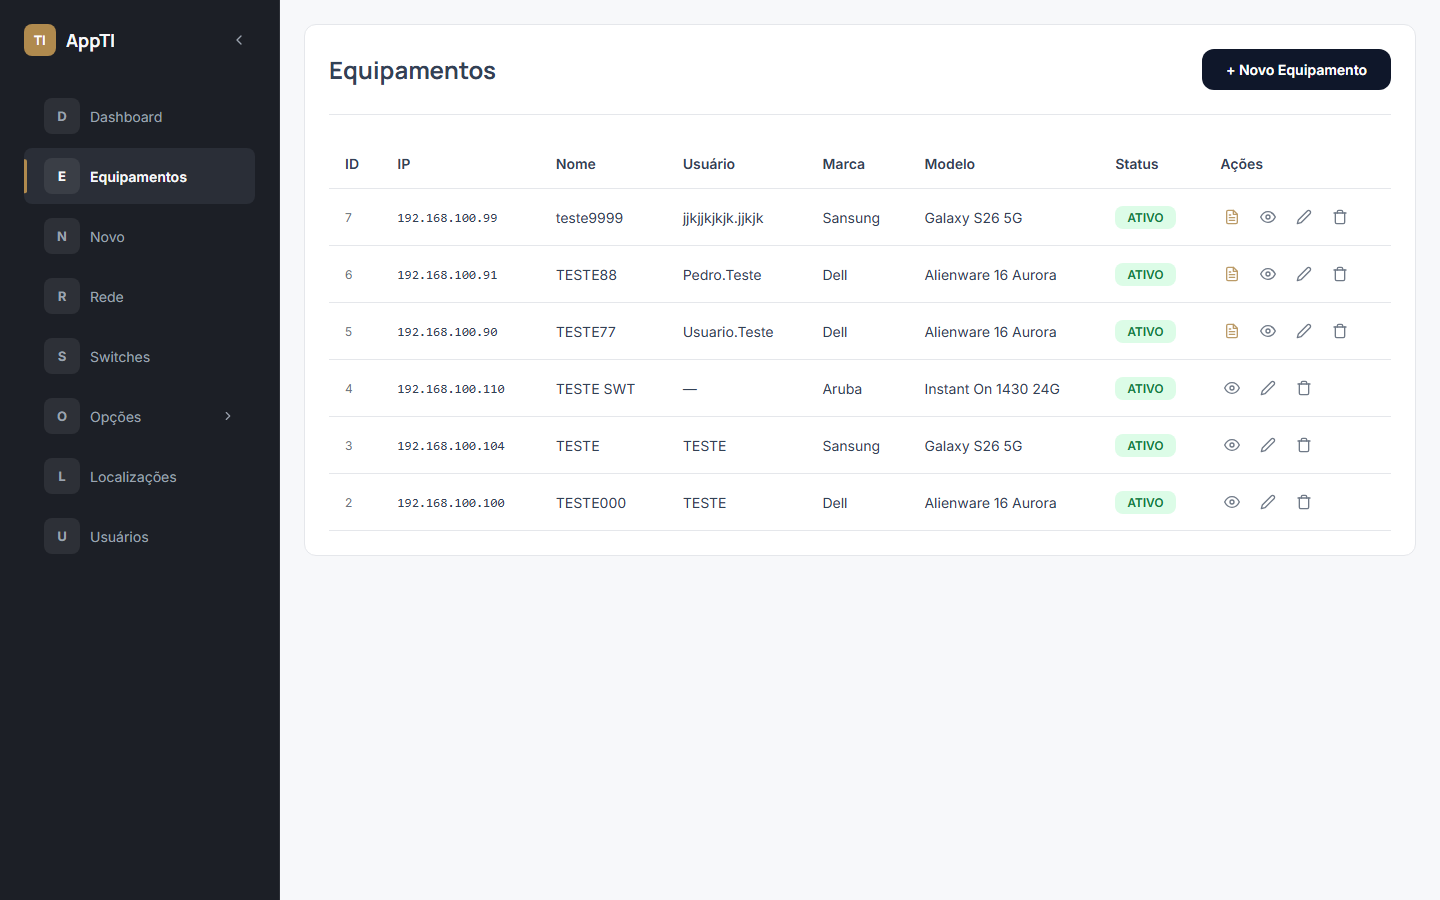
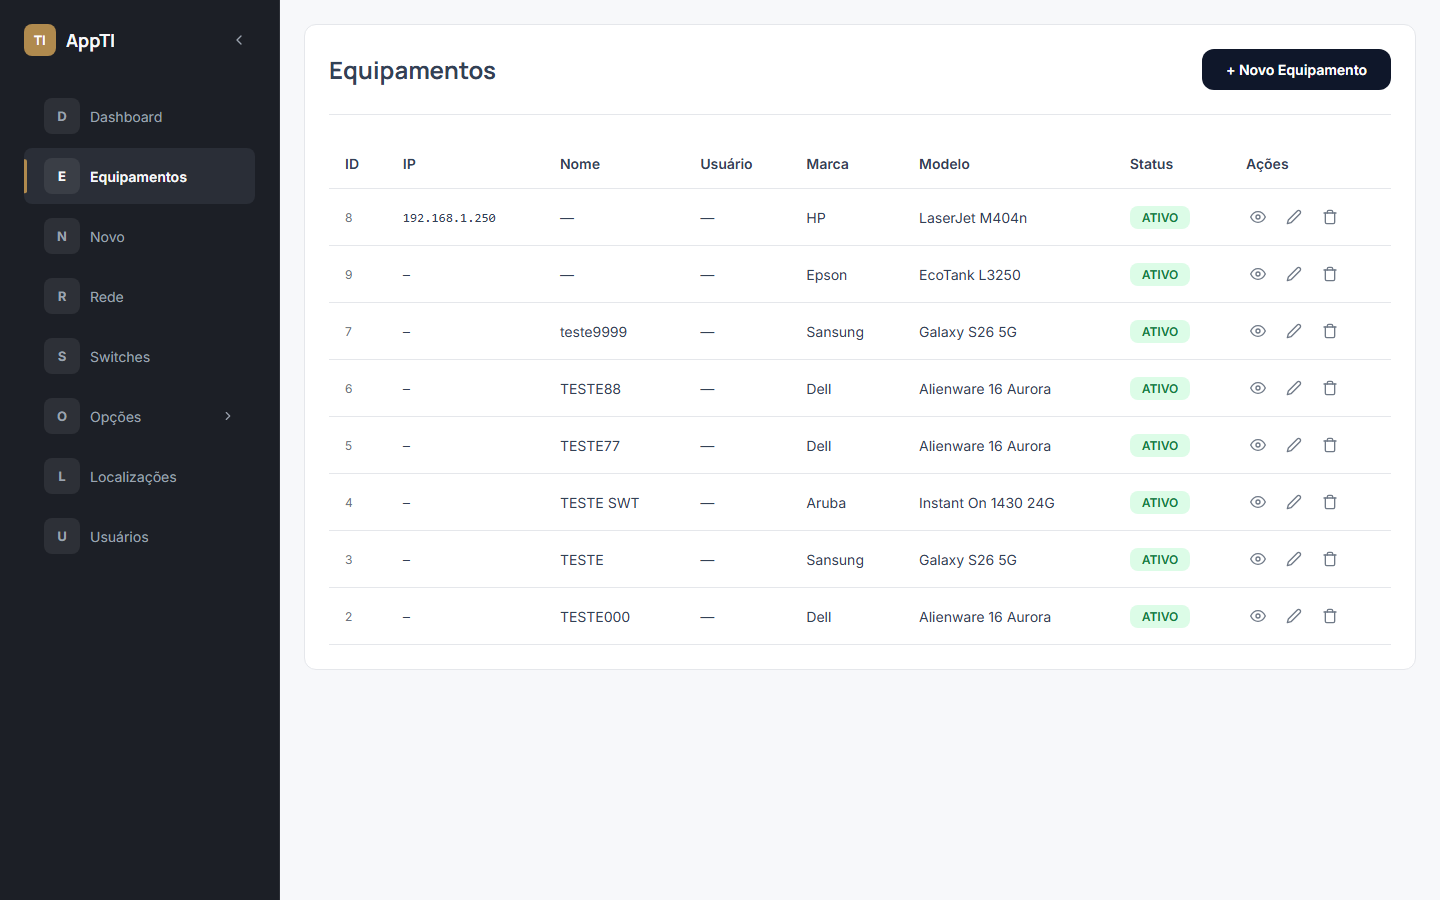
Front-end: Cadastro de Impressoras

diff --git a/front-end/src/pages/Equipamentos/Cadastro/index.tsx b/front-end/src/pages/Equipamentos/Cadastro/index.tsx
@@ -5,12 +5,14 @@ import ComboBoxSelect from '../../../components/ComboBoxSelect';
 import ModalConfirmacao from '../../../components/ModalConfirmacao';
 import { criarEquipamento, enviarAnexoEquipamento, listarLocalizacoes } from '../../../services/equipamentos';
 import type { CategoriaEquipamento } from '../../../services/equipamentos';
+import { listarComputadoresConectaveis } from '../../../services/impressoras';
+import type { ComputadorConectavel } from '../../../services/impressoras';
 import { listarOpcoes } from '../../../services/opcoes';
 import type { OpcoesAgrupadas } from '../../../services/opcoes';
 import { formatarMAC, formatarIMEI, formatarIP, formatarTag } from '../../../utils/formatadores';
 import styles from './Cadastro.module.css';
 
-type Categoria = 'COMPUTADOR' | 'SWITCH' | 'CELULAR' | 'NVR' | 'CAMERA';
+type Categoria = 'COMPUTADOR' | 'SWITCH' | 'CELULAR' | 'NVR' | 'CAMERA' | 'IMPRESSORA';
 
 interface Localizacao {
   id: number;
@@ -58,6 +60,8 @@ function mapCategoriaParaEndpoint(categoria: Categoria): CategoriaEquipamento {
     case 'NVR':
     case 'CAMERA':
       return 'cftv';
+    case 'IMPRESSORA':
+      return 'impressora';
   }
 }
 
@@ -72,6 +76,8 @@ function mapCategoriaParaTipoOpcao(categoria: Categoria): string {
     case 'NVR':
     case 'CAMERA':
       return 'NVR_CAMERA';
+    case 'IMPRESSORA':
+      return 'IMPRESSORA';
   }
 }
 
@@ -96,6 +102,18 @@ export default function Cadastro() {
   const [erroInterfaces, setErroInterfaces] = useState<{ mensagem: string; campo?: 'ip' | 'mac' } | null>(null);
   const [modalCancelarAberto, setModalCancelarAberto] = useState(false);
 
+  const [tipoConexao, setTipoConexao] = useState<'REDE' | 'USB'>('REDE');
+  const [computadorConectadoId, setComputadorConectadoId] = useState('');
+  const [computadoresConectaveis, setComputadoresConectaveis] = useState<ComputadorConectavel[]>([]);
+
+  useEffect(() => {
+    if (categoria === 'IMPRESSORA') {
+      listarComputadoresConectaveis()
+        .then(setComputadoresConectaveis)
+        .catch((erro) => console.error('Erro ao carregar computadores conectáveis:', erro));
+    }
+  }, [categoria]);
+
   // Deriva o id da marca escolhida pelo texto digitado — usado para filtrar os modelos
   const marcaId =
     opcoesSugeridas.MARCA?.find(
@@ -118,6 +136,8 @@ export default function Cadastro() {
     setDadosDetalhe({});
     setDadosMestre((anterior) => ({ ...anterior, marca: '', modelo: '' }));
     setMensagemStatus(null);
+    setTipoConexao('REDE');
+    setComputadorConectadoId('');
 
     if (categoria === 'CELULAR') {
       setInterfacesRede([{ nome_interface: 'Wi-Fi', ip: '', mac: '' }]);
@@ -179,6 +199,15 @@ export default function Cadastro() {
     [opcoesSugeridas.TIPO_INTERFACE],
   );
 
+  const opcoesComputadoresConectaveis = useMemo(
+    () =>
+      computadoresConectaveis.map((c) => ({
+        valor: String(c.id),
+        rotulo: [c.nome, `${c.marca} ${c.modelo}`].filter(Boolean).join(' - '),
+      })),
+    [computadoresConectaveis],
+  );
+
   function formularioTemDadosRelevantes(): boolean {
     const mestreAlterado =
       dadosMestre.marca.trim() !== '' ||
@@ -215,6 +244,8 @@ export default function Cadastro() {
       localizacao_id: anterior.localizacao_id,
     }));
     setDadosDetalhe({});
+    setTipoConexao('REDE');
+    setComputadorConectadoId('');
     if (categoria === 'CELULAR') {
       setInterfacesRede([{ nome_interface: 'Wi-Fi', ip: '', mac: '' }]);
     } else if (categoria === 'SWITCH') {
@@ -303,21 +334,28 @@ export default function Cadastro() {
   async function handleSubmit(event: SubmitEvent<HTMLFormElement>) {
     event.preventDefault();
 
-    const detalhe: Record<string, string | boolean | number> = {};
+    let detalhe: Record<string, string | boolean | number> = {};
 
-    Object.entries(dadosDetalhe).forEach(([chave, valor]) => {
-      if (typeof valor === 'string' && valor.trim() !== '') {
-        detalhe[chave] = valor.trim();
+    if (categoria === 'IMPRESSORA') {
+      detalhe = {
+        tipo_conexao: tipoConexao,
+        ...(tipoConexao === 'USB' && computadorConectadoId && { computador_conectado_id: Number(computadorConectadoId) }),
+      };
+    } else {
+      Object.entries(dadosDetalhe).forEach(([chave, valor]) => {
+        if (typeof valor === 'string' && valor.trim() !== '') {
+          detalhe[chave] = valor.trim();
+        }
+      });
+
+      if (categoria === 'COMPUTADOR' && 'antivirus_instalado' in detalhe) {
+        detalhe.antivirus_instalado = detalhe.antivirus_instalado === 'true';
       }
-    });
 
-    if (categoria === 'COMPUTADOR' && 'antivirus_instalado' in detalhe) {
-      detalhe.antivirus_instalado = detalhe.antivirus_instalado === 'true';
-    }
-
-    if (categoria === 'SWITCH') {
-      if ('numero_portas' in detalhe && typeof detalhe.numero_portas === 'string') {
-        detalhe.numero_portas = Number(detalhe.numero_portas);
+      if (categoria === 'SWITCH') {
+        if ('numero_portas' in detalhe && typeof detalhe.numero_portas === 'string') {
+          detalhe.numero_portas = Number(detalhe.numero_portas);
+        }
       }
     }
 
@@ -333,13 +371,15 @@ export default function Cadastro() {
         ...(dadosMestre.observacao.trim() && { observacao: dadosMestre.observacao.trim() }),
       },
       detalhe,
-      interfaces: interfacesRede
-        .map((item) => ({
-          nome_interface: item.nome_interface.trim(),
-          ...(item.ip.trim() && { ip: item.ip.trim() }),
-          ...(item.mac.trim() && { mac: item.mac.trim() }),
-        }))
-        .filter((item) => item.nome_interface || item.ip || item.mac),
+      interfaces: (categoria === 'IMPRESSORA' && tipoConexao === 'USB')
+        ? []
+        : interfacesRede
+            .map((item) => ({
+              nome_interface: item.nome_interface.trim(),
+              ...(item.ip.trim() && { ip: item.ip.trim() }),
+              ...(item.mac.trim() && { mac: item.mac.trim() }),
+            }))
+            .filter((item) => item.nome_interface || item.ip || item.mac),
     };
 
     try {
@@ -442,6 +482,7 @@ export default function Cadastro() {
                   <option value="CELULAR">Celular</option>
                   <option value="NVR">NVR</option>
                   <option value="CAMERA">Câmera</option>
+                  <option value="IMPRESSORA">Impressora</option>
                 </select>
               </div>
 
@@ -829,7 +870,53 @@ export default function Cadastro() {
             </div>
           )}
 
-          <div className={styles.secaoMonobloco} id="secao-interfaces-rede">
+          {categoria === 'IMPRESSORA' && (
+            <div className={styles.secaoMonobloco}>
+              <h2 className={styles.secaoTitulo}>Detalhes Técnicos</h2>
+              <div className={styles.grid2}>
+                <div className={styles.campo}>
+                  <label htmlFor="tipo_conexao">
+                    Tipo de Conexão <span className={styles.obrigatorio}>*</span>
+                  </label>
+                  <select
+                    id="tipo_conexao"
+                    name="tipo_conexao"
+                    className={styles.select}
+                    value={tipoConexao}
+                    onChange={(event) => {
+                      const novoTipo = event.target.value as 'REDE' | 'USB';
+                      setTipoConexao(novoTipo);
+                      if (novoTipo === 'REDE') {
+                        setComputadorConectadoId('');
+                      }
+                    }}
+                  >
+                    <option value="REDE">Rede</option>
+                    <option value="USB">USB</option>
+                  </select>
+                </div>
+
+                {tipoConexao === 'USB' && (
+                  <div className={styles.campo}>
+                    <label htmlFor="computador_conectado_id">
+                      Computador Conectado <span className={styles.obrigatorio}>*</span>
+                    </label>
+                    <ComboBoxSelect
+                      id="computador_conectado_id"
+                      opcoes={opcoesComputadoresConectaveis}
+                      valor={computadorConectadoId}
+                      aoMudar={(val) => setComputadorConectadoId(val)}
+                      placeholder="Selecione o computador conectado"
+                      obrigatorio
+                    />
+                  </div>
+                )}
+              </div>
+            </div>
+          )}
+
+          {!(categoria === 'IMPRESSORA' && tipoConexao === 'USB') && (
+            <div className={styles.secaoMonobloco} id="secao-interfaces-rede">
             <h2 className={styles.secaoTitulo}>Interface de Rede</h2>
             {erroInterfaces && (
               <span className={styles.textoErroSecao}>
@@ -900,6 +987,7 @@ export default function Cadastro() {
               </div>
             )}
           </div>
+          )}
         </div>
 
         <div className={styles.botoesAcao}>

diff --git a/front-end/src/services/equipamentos.ts b/front-end/src/services/equipamentos.ts
@@ -1,6 +1,6 @@
 import { fetchComToken } from './api';
 
-export type CategoriaEquipamento = 'computador' | 'switch' | 'celular' | 'cftv';
+export type CategoriaEquipamento = 'computador' | 'switch' | 'celular' | 'cftv' | 'impressora';
 
 export async function criarEquipamento(categoria: CategoriaEquipamento, payload: unknown) {
   let endpoint: string;
@@ -17,6 +17,9 @@ export async function criarEquipamento(categoria: CategoriaEquipamento, payload:
       break;
     case 'cftv':
       endpoint = '/api/cftv';
+      break;
+    case 'impressora':
+      endpoint = '/api/impressoras';
       break;
     default:
       throw new Error(`Categoria de equipamento desconhecida: ${categoria}`);

diff --git a/front-end/src/services/impressoras.ts b/front-end/src/services/impressoras.ts
@@ -1,0 +1,14 @@
+import { fetchComToken } from './api';
+
+export interface ComputadorConectavel {
+  id: number;
+  nome: string | null;
+  marca: string;
+  modelo: string;
+}
+
+export async function listarComputadoresConectaveis() {
+  return fetchComToken('/api/impressoras/computadores-conectaveis').then(
+    (r) => r.dados as ComputadorConectavel[],
+  );
+}
